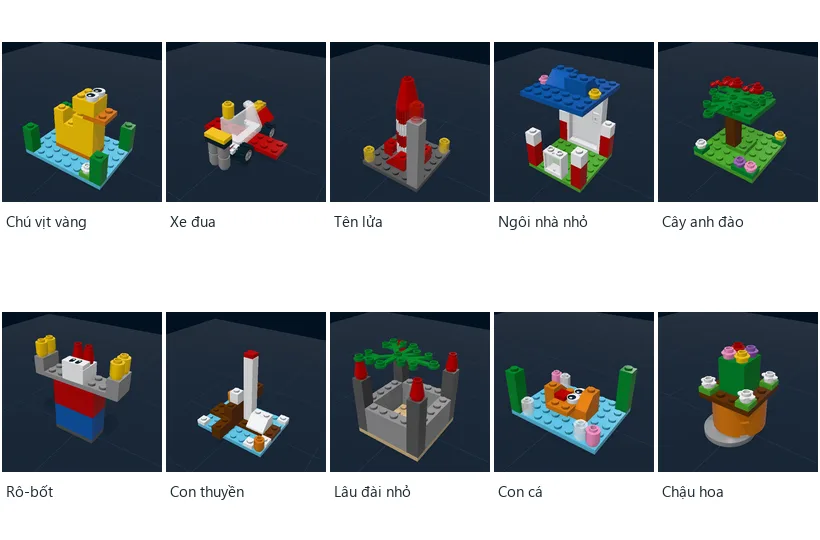
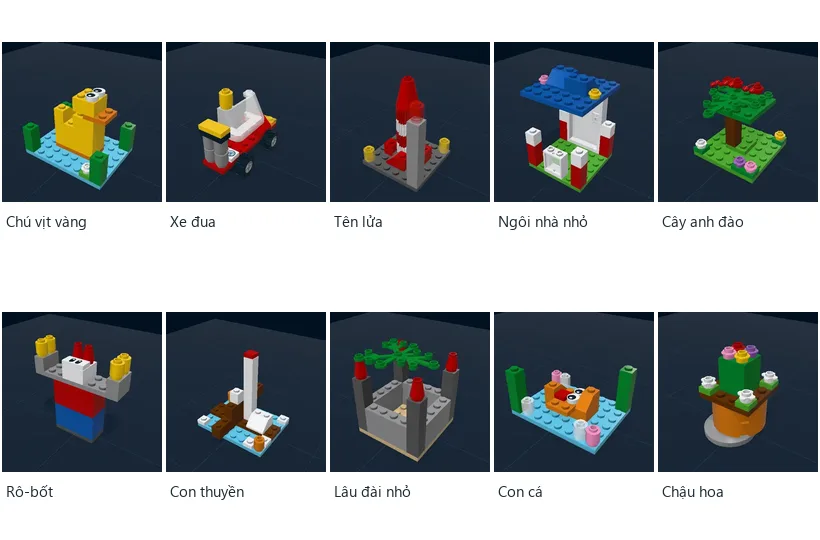
Lắp Ghép: chọn tầng khi tia lọt khe — giữ hướng đang cầm, đậu lên mặt cao nhất
- Trước: chỉ "leo lên" khi tầng chạm không còn chỗ nào hợp lệ → mảnh dài bị tự xoay rồi nhét vào tầng trống bên dưới
- Nay: tầng chạm không có chỗ đúng hướng đang cầm, hoặc chỗ đó bị che sát phía trên (< 6 LDU) → đậu lên mặt
  cao nhất dưới chân mảnh, giữ hướng; mảnh nhỏ vừa khe, đặt cạnh mảnh khác, chỗ dưới mái cao vẫn như cũ
- Test 3 ca; mẫu xe đua giữ đúng thân dọc (ảnh chụp lại); plan mục 20

Changed region(s): [[0.2439, 0.1481, 0.3659, 0.3259]]

diff --git a/src/bricks/engine/place.ts b/src/bricks/engine/place.ts
@@ -3,7 +3,7 @@
 import { ORIENTS, YAW, rot } from './orient';
 import { pick, type Hit } from './pick';
 import type { ConnKind, V3 } from './types';
-import { add3, isGroundStud, type Check, type Problem, type World } from './world';
+import { add3, isGroundStud, overlap, type Check, type Problem, type World } from './world';
 
 export interface Candidate { part: string; pos: V3; o: number; ok: boolean; reason?: Problem; joins: Check['joins']; lift?: Check['lift']; score: number }
 export interface SuggestOptions {
@@ -104,25 +104,52 @@ export function suggest(world: World, part: string, prefO: number, hit: Hit, opt
     checked.push({ ...c, ok: r.ok, reason: r.reason, joins: r.joins, lift: r.lift });
     if (r.ok && ++okCount >= (opt.wantOptions ?? 1)) break;
   }
-  const valid = checked.filter(c => c.ok);
+  let valid = checked.filter(c => c.ok);
+  // Chọn tầng (góp ý 15/10 — trước đây chỉ "leo lên" khi tầng thấp không còn chỗ nào → mảnh dài bị XOAY rồi nhét vào tầng trống):
+  //  · ở tầng tia chạm không có chỗ hợp lệ ĐÚNG HƯỚNG đang cầm → leo lên mặt cao nhất dưới chân mảnh, giữ hướng;
+  //  · chỗ hợp lệ đúng hướng nhưng bị che sát phía trên (không đủ khoảng để ấn xuống núm) → cũng leo lên.
+  // Đặt cạnh mảnh khác trên cùng mặt vẫn như cũ (có chỗ dịch nhẹ hợp lệ thì dùng, không nhảy lên nóc mảnh bên cạnh).
+  if (!opt.noClimb && target.normal[1] < -0.99 && checked.length) {
+    const same = valid.filter(c => def.symClass[c.o] === prefClass);
+    const blocked = same.length && same.every(c => coveredAbove(world, part, c.pos, c.o, opt.ignore));
+    if (!same.length || blocked) {
+      const from = raw.find(c => def.symClass[c.o] === prefClass) ?? checked[0];
+      const lifted = climb(world, part, prefO, from, target, radius, size, opt);
+      if (lifted && def.symClass[lifted.best!.o] === prefClass) return lifted;
+      if (blocked) valid = valid.filter(c => !same.includes(c));
+    }
+  }
   // Một lựa chọn cho mỗi lớp hướng (cho nút ↻), theo điểm tốt nhất
   const options: Candidate[] = [], classes = new Set<number>();
   for (const c of valid) { const cl = def.symClass[c.o]; if (!classes.has(cl)) { classes.add(cl); options.push(c); } }
   // "Leo lên": chạm mặt ngửa (bàn/mặt trên) mà mọi chỗ đều vướng → thử mặt núm CAO NHẤT nằm dưới vùng chân mảnh,
   // giữ đúng vị trí ngang bé đã nhắm (ví dụ thả tấm mái giữa bốn cột: tia lọt khe xuống nền, mái phải lên đầu cột).
   if (!valid.length && checked.length && !opt.noClimb && target.normal[1] < -0.99) {
-    const g = world.shape(part, checked[0].pos, checked[0].o).bbox;
-    let top: Hit | null = null;
-    for (let x = g[0] + 10; x < g[3]; x += 20) for (let z = g[2] + 10; z < g[5]; z += 20) {
-      const h = pick(world, [x, -AREA_TOP, z], [0, 1, 0], opt.ignore);
-      if (h && h.kind === 'piece' && h.normal[1] < -0.99 && h.point[1] < target.point[1] - 1 && (!top || h.point[1] < top.point[1])) top = h;
-    }
-    if (top && top.kind === 'piece') {
-      const lifted: Hit = { ...top, point: [target.point[0], top.point[1], target.point[2]] };
-      const again = suggest(world, part, prefO, lifted, { ...opt, noClimb: true, radius: Math.max(radius, size) });
-      if (again.best?.ok) return again;
-    }
+    const lifted = climb(world, part, prefO, checked[0], target, radius, size, opt);
+    if (lifted) return lifted;
   }
   return { best: valid[0] || checked[0] || null, options, target };
+}
+
+/** Khoảng ngay trên chân mảnh (đặt thử) có bị mảnh khác chiếm không — cần ≥ chiều cao núm để ấn mảnh xuống. */
+const CLEARANCE = 6;
+function coveredAbove(world: World, part: string, pos: V3, o: number, ignore?: Set<number>) {
+  const b = world.shape(part, pos, o).bbox;
+  const slab: [number, number, number, number, number, number] = [b[0], b[1] - CLEARANCE, b[2], b[3], b[1], b[5]];
+  return world.near(slab).some(p => !ignore?.has(p.id) && p.boxes.some(x => overlap(x, slab)));
+}
+
+/** Đậu lên mặt núm CAO NHẤT dưới chân mảnh (giữ vị trí ngang bé đã nhắm). Không có chỗ hợp lệ ở đó → null. */
+function climb(world: World, part: string, prefO: number, at: { pos: V3; o: number }, target: Hit, radius: number, size: number, opt: SuggestOptions): Suggestion | null {
+  const g = world.shape(part, at.pos, at.o).bbox;
+  let top: Hit | null = null;
+  for (let x = g[0] + 10; x < g[3]; x += 20) for (let z = g[2] + 10; z < g[5]; z += 20) {
+    const h = pick(world, [x, -AREA_TOP, z], [0, 1, 0], opt.ignore);
+    if (h && h.kind === 'piece' && h.normal[1] < -0.99 && h.point[1] < target.point[1] - 1 && (!top || h.point[1] < top.point[1])) top = h;
+  }
+  if (!top || top.kind !== 'piece') return null;
+  const lifted: Hit = { ...top, point: [target.point[0], top.point[1], target.point[2]] };
+  const again = suggest(world, part, prefO, lifted, { ...opt, noClimb: true, radius: Math.max(radius, size) });
+  return again.best?.ok ? again : null;
 }
 const AREA_TOP = 4000;

diff --git a/src/bricks/engine/engine.test.ts b/src/bricks/engine/engine.test.ts
@@ -90,6 +90,34 @@ describe('đặt mảnh', () => {
     expect(s.best?.ok).toBe(true);
   });
 
+  // Góp ý chủ dự án 15/10: tia lọt khe xuống tầng thấp thì mảnh bị nhét vào tầng trống, không lên được tầng trên.
+  // Luật mới (như lắp thật — hạ mảnh từ trên xuống): chỗ ngay trên chân mảnh ở tầng thấp bị mảnh khác che → mảnh đậu lên mặt cao nhất.
+  describe('chọn tầng khi tia lọt khe', () => {
+    const channel = () => {
+      w.add('3035', 'blue', [0, -8, 0], 0);                                            // tầng 1: tấm 4×8
+      for (const z of [-30, 30]) { w.add('3666', 'blue', [0, -16, z], 0); w.add('3666', 'blue', [0, -24, z], 0); }   // tầng 2–3: hai mép
+      return pick(w, [10, -2000, 0], [0, 1, 0])!;                                      // chạm đáy rãnh (mặt tầng 1)
+    };
+    it('tấm 1×6 cầm ngang qua rãnh: lên đỉnh tầng 3, giữ hướng đang cầm (không bị xoay nhét vào rãnh)', () => {
+      const hit = channel();
+      expect(hit.point[1]).toBe(-8);
+      const s = suggest(w, '3666', YAW[1], hit).best!;
+      expect(s.ok).toBe(true);
+      expect(w.def('3666').symClass[s.o]).toBe(w.def('3666').symClass[YAW[1]]);
+      expect(s.pos[1]).toBe(-32);                                                      // đáy mảnh nằm trên mặt tầng 3 (y = −24)
+    });
+    it('mảnh nhỏ vừa rãnh vẫn xuống đáy rãnh', () => {
+      const s = suggest(w, '3024', 0, channel()).best!;
+      expect(s.ok).toBe(true); expect(s.pos[1]).toBe(-16);
+    });
+    it('dưới mái cao (còn khoảng trống phía trên) vẫn lắp được trên mặt thấp', () => {
+      for (const x of [-30, 30]) for (let i = 1; i <= 3; i++) w.add('3005', 'red', [x, -24 * i, 0], 0);
+      w.add('3710', 'red', [0, -80, 0], 0);                                            // mái 1×4 cao 3 gạch
+      const s = suggest(w, '3024', 0, pick(w, [10, -40, 0], [0, 1, 0])!).best!;        // tia đi dưới mái, chạm bàn
+      expect(s.ok).toBe(true); expect(s.pos[1]).toBe(-8);
+    });
+  });
+
   it('chế độ bé chỉ cho hướng đứng', () => {
     const a = dropAt('87087', 0, 0)!;
     w.add('87087', 'red', a.pos, a.o);

diff --git a/docs/brick-studio-plan.md b/docs/brick-studio-plan.md
@@ -823,4 +823,5 @@ docs/brick-studio/  parts-v1.csv · sheets/ · cover-prompt.md · ảnh nghiệm
 - 15/10 · 4.2, 8.2 · **Lỗi núm "trong suốt"** (có từ GĐ0a, nền tối làm lộ rõ): `stud.dat` tham chiếu vách núm bằng ma trận định thức âm, đoạn làm phẳng núm trong `bricks-parts.mjs` không đảo chiều mặt → vách quay vào trong, bị cắt mặt sau. Đã vá pipeline (đảo thứ tự đỉnh khi det < 0) và vá lúc nạp (`fixStudWalls`, không đổi gì nếu dữ liệu đúng). Thêm bóng che nướng sẵn ở chân núm (`shadeStudBase`, vật liệu `Materials.stud`). Đèn chính nâng lên ~65° để mặt trên sáng hơn mặt đứng.
 - 15/10 · 7.2 · Chủ dự án làm rõ: **chuột phải bấm = xoay mảnh đang cầm** (như R / ↻), kéo chuột phải vẫn xoay camera. ↻ lướt hướng theo thứ tự 0° → 90° → 180° → 270° rồi mới tới hướng nằm nghiêng; sửa lỗi cũ tìm hướng hiện tại bằng cả vị trí (xoay 90° lệch tâm nửa núm → luôn nhảy về đầu danh sách).
 - 15/10 · 7.1 · Chủ dự án: khay chiếm 1/3 màn hình → **khay 2 hàng ~160 px**: [tìm + nhóm + nhóm con ngay sau nhóm đang chọn] và [thẻ mảnh 86×100 | màu | xoay]; ẩn thanh cuộn, lăn chuột cuộn ngang. Nhãn thẻ bỏ tiền tố trùng tên nhóm ("Gạch 2×4" → "2×4" trong nhóm Gạch; nhóm lẫn loại, Vừa dùng, tìm kiếm giữ tên đầy đủ).
+- 15/10 · 7.4 · **Chọn tầng khi tia lọt khe** (góp ý chủ dự án): trước đây chỉ "leo lên" khi tầng chạm không còn chỗ nào hợp lệ, nên mảnh dài bị engine tự XOAY rồi nhét vào tầng trống bên dưới. Luật mới: ở tầng chạm không có chỗ hợp lệ đúng hướng đang cầm, hoặc chỗ đó bị che sát phía trên (< 6 LDU, không đủ để ấn xuống núm) → đậu lên mặt cao nhất dưới chân mảnh, giữ hướng; chỉ khi không được mới dùng hướng khác ở tầng thấp. Đặt cạnh mảnh khác cùng mặt vẫn như cũ. Test 3 ca (rãnh 2 tầng, mảnh nhỏ vừa khe, dưới mái cao). Mẫu xe đua giờ giữ đúng thân dọc (trước bị xoay ngang) — ảnh chụp lại.
 - 15/10 · 14 GĐ3 · Ảnh bìa sinh bằng ImageGen theo `public/bricks/cover-art.md`, không dùng `docs/brick-studio/cover-prompt.md`.
